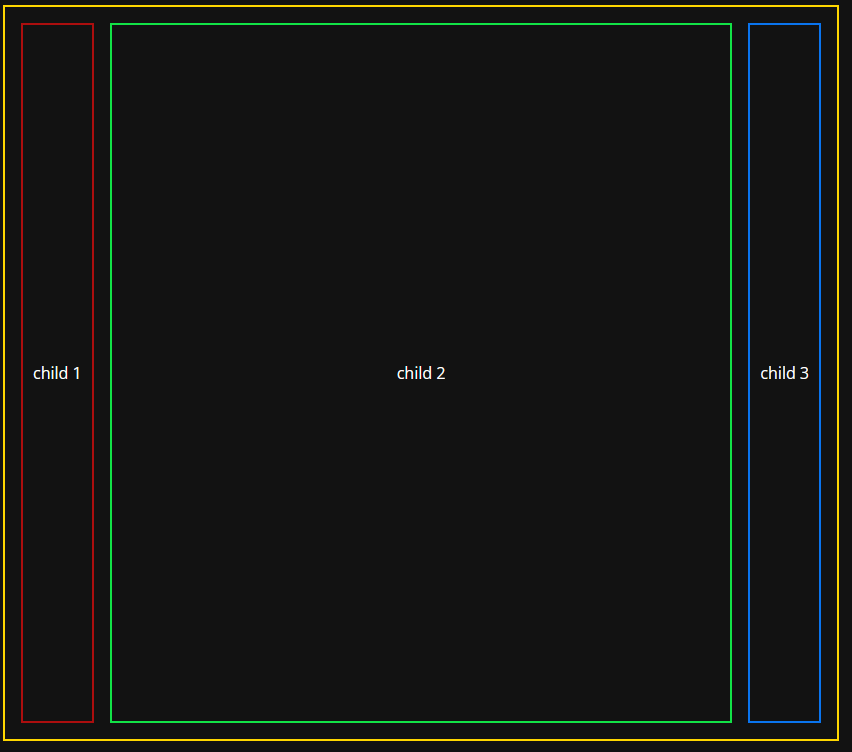
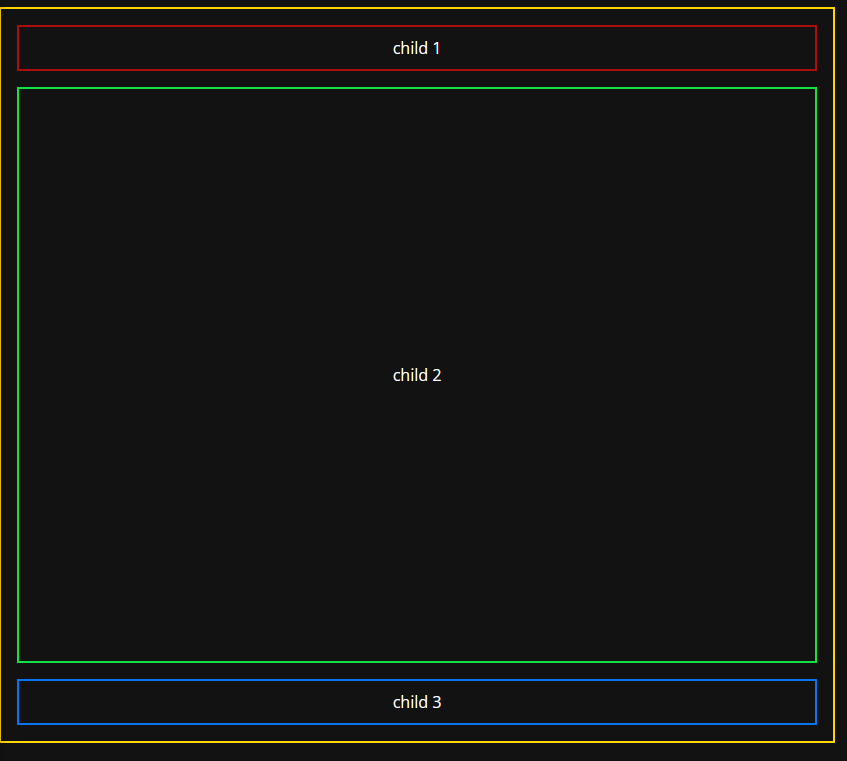
docs: ✏ add rows layout and change rows name to column

Changed region(s): [[0.0, 0.0, 1.0, 1.0], [0.4604, 0.4588, 0.5218, 0.5199]]

diff --git a/css/css-grid-auto-property.md b/css/css-grid-auto-property.md
@@ -1,5 +1,17 @@
 # CSS Grid `auto` property
 
+## grid columns
+
+![Grid columns layout](../images/grid-column-layout.png)
+
+## To achieve this, use the css below:
+
+```css
+.container {
+  grid-template-columns: auto 1fr auto;
+}
+```
+
 ## grid rows
 
 ![Grid rows layout](../images/grid-rows-layout.png)
